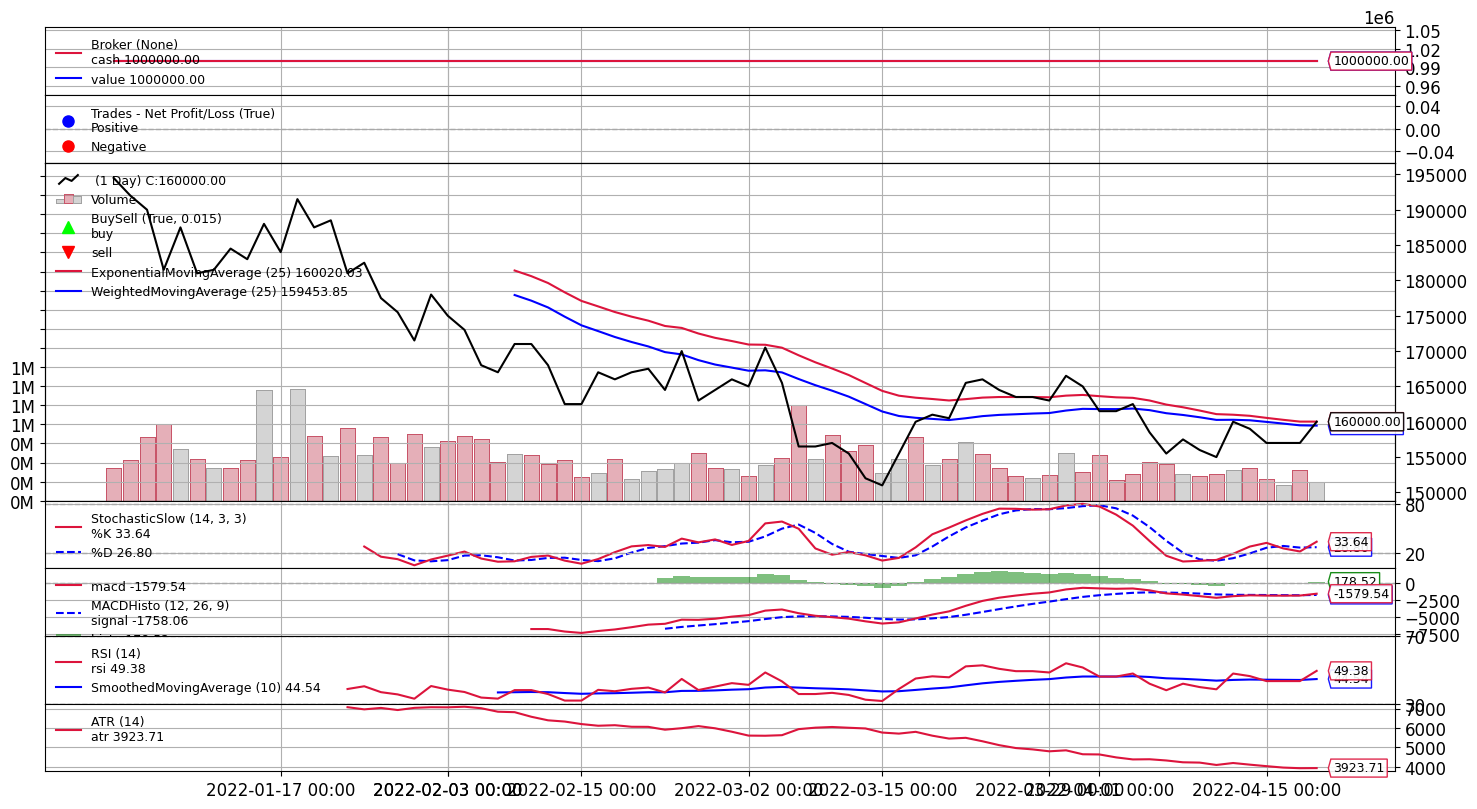
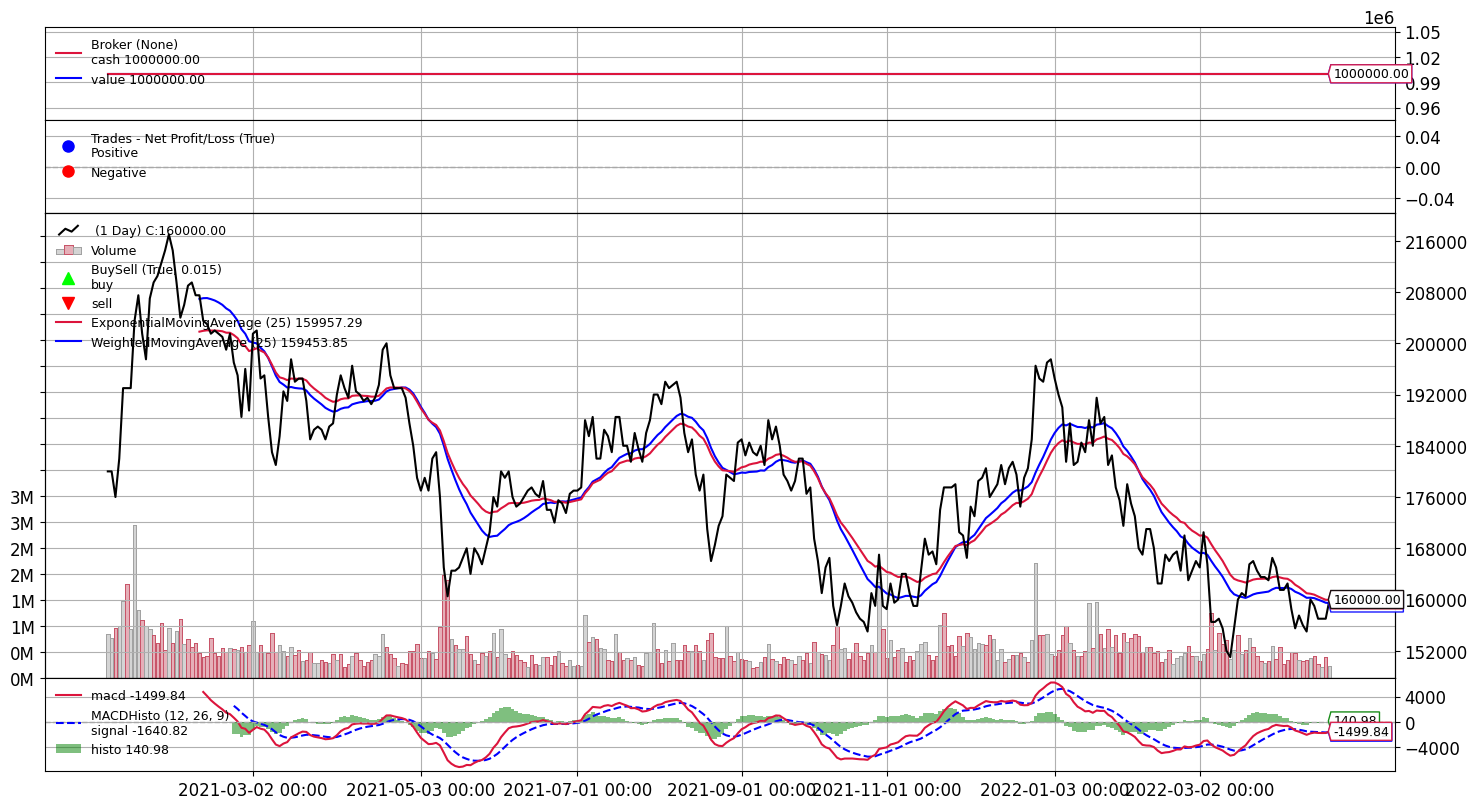
백트레이딩업데이트

Changed region(s): [[0.0, 0.0309, 0.9966, 0.9889]]

diff --git a/models/strategy.py b/models/strategy.py
@@ -7,8 +7,8 @@ class ta(bt.Strategy):
         self.dataclose= self.datas[0].close
         bt.indicators.ExponentialMovingAverage(self.datas[0], period=25)
         bt.indicators.WeightedMovingAverage(self.datas[0], period=25, subplot = False)
-        bt.indicators.StochasticSlow(self.datas[0], subplot=True)
+        # bt.indicators.StochasticSlow(self.datas[0], subplot=True)
         bt.indicators.MACDHisto(self.datas[0])
-        rsi = bt.indicators.RSI(self.datas[0])
-        bt.indicators.SmoothedMovingAverage(rsi, period=10)
-        bt.indicators.ATR(self.datas[0], plot = True)
+        # rsi = bt.indicators.RSI(self.datas[0])
+        # bt.indicators.SmoothedMovingAverage(rsi, period=10)
+        # bt.indicators.ATR(self.datas[0], plot = True)

diff --git a/app.py b/app.py
@@ -24,7 +24,7 @@ save_results_path = os.getcwd()
 save_results_path = os.path.join(save_results_path, "results")
 save_results_path = os.path.join(save_results_path, ticker + ".png")
 
-data = dn.s_download(ticker, "20220101", "20221231")
+data = dn.s_download(ticker, "20210101", "20221231")
 
 display(data)
 
